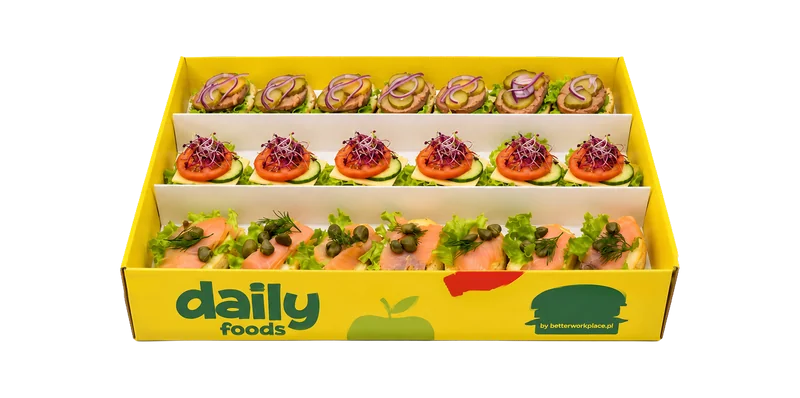
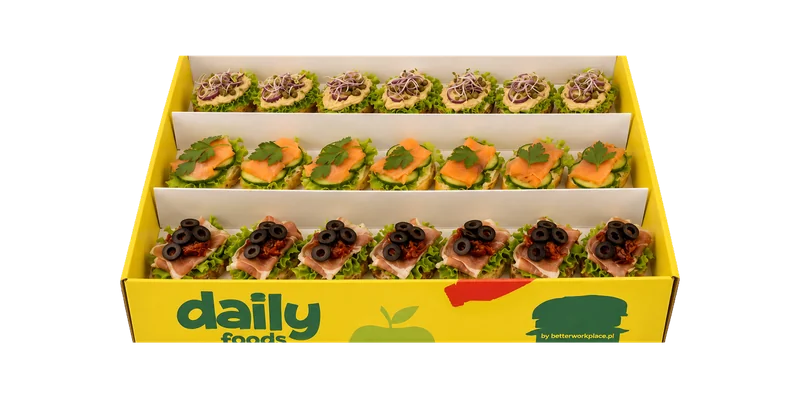
fix(oferta/catering): rotacja zdjec fingerfoodow wytrawnych miedzy kartami
- Klasyczny <- foto Mix premium; Srodziemnomorski <- foto Klasycznego; Mix premium <- foto Srodziemnomorskiego
- (instrukcja #3 dawala duplikat, wiec rotacja - kazde zdjecie raz)

diff --git a/oferta.html b/oferta.html
@@ -464,15 +464,15 @@ html.pt-in body { animation: ptFadeIn 0.32s ease both; }
                 <div class="product-card-body"><h3>Owocowo-wytrawne</h3><ul class="skladniki"><li>Zestaw Finger Foods (21 szt.)</li><li>Banan 2 kg</li><li>Jabłko 2 kg</li><li>Owoce sezonowe 2 kg</li></ul><details class="sklad-more"><summary>Pełny skład (+2)</summary><ul class="skladniki"><li>Bakalie MIX 65 g ×12</li><li>Sok NFC, mix smaków 195 ml ×20</li></ul></details><a href="/zapytanie" class="btn-sm"><span class="fun fun-alt">Zamów</span> wycenę →</a></div>
             </div>
             <div class="product-card">
-                <div class="product-card-img"><img src="kat-fingerfood-klasyczny.webp" alt="Fingerfoods wytrawne Klasyczny" loading="lazy" width="800" height="404"></div>
+                <div class="product-card-img"><img src="kat-fingerfood-klasyczny.webp" alt="Fingerfoods wytrawne Klasyczny" loading="lazy" width="800" height="398"></div>
                 <div class="product-card-body"><h3>Klasyczny</h3><ul class="skladniki"><li>7 × bagietka jasna z łososiem wędzonym</li><li>7 × bagietka ciemna z pasztetem</li><li>7 × bagietka jasna z serem żółtym</li></ul><a href="/zapytanie" class="btn-sm"><span class="fun fun-alt">Zamów</span> wycenę →</a></div>
             </div>
             <div class="product-card">
-                <div class="product-card-img"><img src="kat-fingerfood-srodziemnomorski.webp" alt="Fingerfoods wytrawne Śródziemnomorski" loading="lazy" width="800" height="399"></div>
+                <div class="product-card-img"><img src="kat-fingerfood-srodziemnomorski.webp" alt="Fingerfoods wytrawne Śródziemnomorski" loading="lazy" width="800" height="404"></div>
                 <div class="product-card-body"><h3>Śródziemnomorski</h3><ul class="skladniki"><li>7 × bagietka ciemna z prosciutto</li><li>7 × bagietka jasna z jajkiem</li><li>7 × bagietka ciemna z serkiem pomidorowym</li></ul><a href="/zapytanie" class="btn-sm"><span class="fun fun-alt">Zamów</span> wycenę →</a></div>
             </div>
             <div class="product-card">
-                <div class="product-card-img"><img src="kat-fingerfood-mix-premium.webp" alt="Fingerfoods wytrawne Mix premium" loading="lazy" width="800" height="398"></div>
+                <div class="product-card-img"><img src="kat-fingerfood-mix-premium.webp" alt="Fingerfoods wytrawne Mix premium" loading="lazy" width="800" height="399"></div>
                 <div class="product-card-body"><h3>Mix premium</h3><ul class="skladniki"><li>7 × bagietka jasna z pastą jajeczną</li><li>7 × bagietka jasna z łososiem wędzonym</li><li>7 × bagietka ciemna z prosciutto</li></ul><a href="/zapytanie" class="btn-sm"><span class="fun fun-alt">Zamów</span> wycenę →</a></div>
             </div>
             <div class="product-card">
